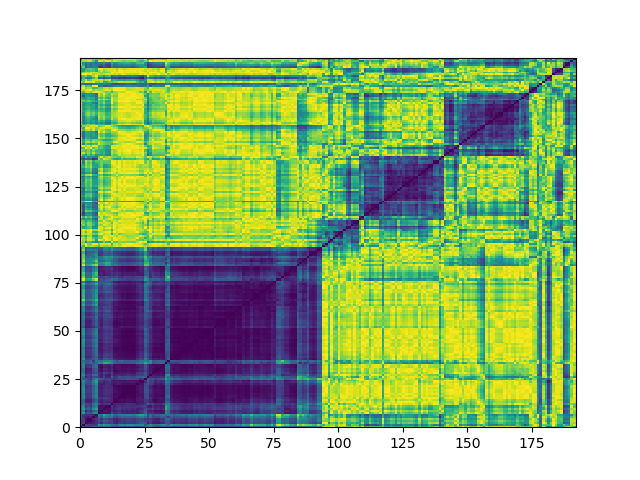
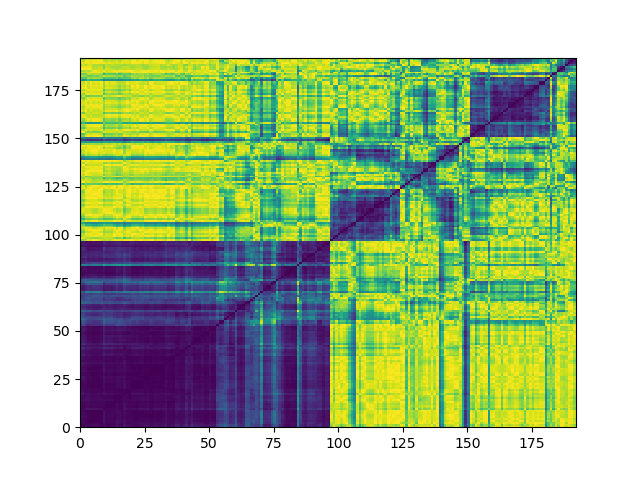
let's run this on ncsa

diff --git a/filter_sim.py b/filter_sim.py
@@ -8,16 +8,16 @@ from util import *
 
 linSort = False
 hierSort = True
-vis = False
+vis = True
 randMat = False
 method = "randomMatrixGeneration" if randMat else "randomNumberPermutation"
 
 vgg = models.vgg16(pretrained=True)
-layer_1 = vgg.features[0].weight.data.numpy() # 64, 3, 3, 3
+# layer_1 = vgg.features[0].weight.data.numpy() # 64, 3, 3, 3
 
 # For each layer, get the filters
 filters = []
-for layer in tqdm([0]): #, 2, 5, 7, 10, 12, 14, 17, 19, 21, 24, 26, 28], desc='Getting Layer Filters'): # Conv2D layers
+for layer in tqdm([28]): #, 2, 5, 7, 10, 12, 14, 17, 19, 21, 24, 26, 28], desc='Getting Layer Filters'): # Conv2D layers
     for i in range(vgg.features[layer].out_channels): # filters
         for j in range(3): # rgb
             filters.append(vgg.features[layer].weight.data.numpy()[i, j, :, :]) # out, in, w, h (or h, w but who cares)
@@ -31,7 +31,7 @@ frames = []
 if method == "randomNumberPermutation":
     frames = create_permutations([0, 1/3, 2/3, 1], 9)
 elif method == "randomMatrixGeneration":
-    frames = np.random.rand(50000, 9)
+    frames = np.random.randint(0, 10, (50000, 9))
 else:
     frames = create_permutations([0, 1 / 3, 2 / 3, 1], 9)
 print(f"Created {len(frames)} permutations")
@@ -93,7 +93,7 @@ if hierSort:
         plt.xlim([0, len(dist_mat)])
         plt.ylim([0, len(dist_mat)])
         plt.show(block=False)
-        plt.savefig("permutation_mag1_noNeg_thirds/"+str(method)+".png")
+        plt.savefig("permutation_mag1_noNeg_thirds_l28/"+str(method)+".png")
 
 if vis:
     figure = plt.figure()
